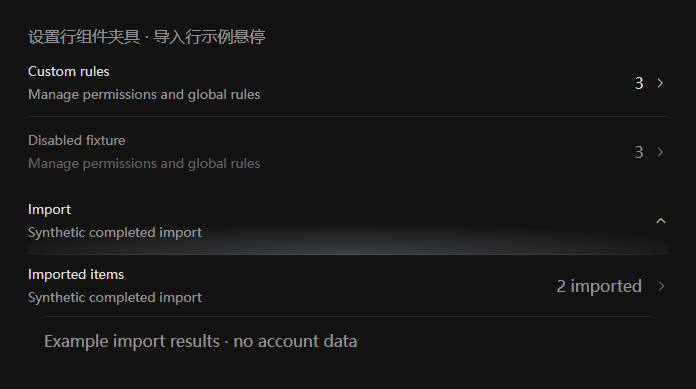
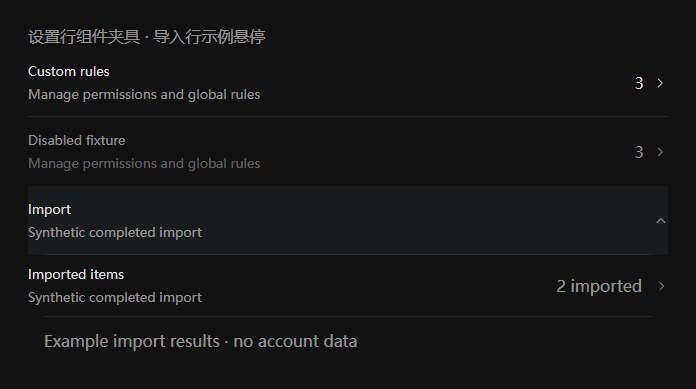
release: ship v0.18.14 theme UI adaptation

Changed region(s): [[0.3319, 0.617, 0.6638, 0.6787]]

diff --git a/runtime/wukong-codex-theme-background-v13.css b/runtime/wukong-codex-theme-background-v13.css
@@ -34,8 +34,7 @@
   --forge-nav-selected-fill: rgba(129,168,201,.09);
   --forge-nav-current-fill: rgba(129,168,201,.16);
   --forge-nav-current-edge: rgba(167,200,229,.38);
-  --forge-settings-action-ink: #e4d5b4;
-  --forge-settings-row-glow: rgba(183,205,224,.25);
+  --forge-settings-row-hover: rgba(183,205,224,.055);
   --forge-shell-filter: blur(8px);
   --forge-summary-fill: rgb(from var(--forge-glass-fill) r g b / 1);
   /* Reading material defaults; custom themes can override these alongside
@@ -71,8 +70,7 @@
   --forge-nav-selected-fill: rgba(72,111,145,.07);
   --forge-nav-current-fill: rgba(72,111,145,.12);
   --forge-nav-current-edge: rgba(54,89,121,.30);
-  --forge-settings-action-ink: #75552d;
-  --forge-settings-row-glow: rgba(76,107,132,.16);
+  --forge-settings-row-hover: rgba(76,107,132,.035);
 }
 :root.forge-ink-mountain[data-forge-surface="landing"] {
   --forge-conversation-visible-high: clamp(0, calc(var(--forge-conversation-image-high) * var(--forge-scene-brightness, 1)), 1);
@@ -519,31 +517,21 @@
   background: none !important;
   box-shadow: none !important;
 }
-/* Settings feedback fades upward and sideways from the bottom of the row.
- * Native corners, layout, dividers and keyboard focus outlines stay untouched. */
+/* Keep native full-row feedback with a lighter theme-matched tint.
+ * Native corners, dividers, icons and keyboard focus outlines stay untouched. */
 @media (forced-colors: none) {
   :root.forge-ink-mountain :is([data-settings-panel], [data-settings-search-root]) :is(
     [data-settings-search-entry].group[class~="hover:bg-secondary-ghost-hover"],
     button[aria-controls^="import-history-"][class~="hover:bg-secondary-ghost-hover"]
   ) {
     background-color: transparent !important;
+    background-image: none !important;
   }
   :root.forge-ink-mountain :is([data-settings-panel], [data-settings-search-root]) :is(
     [data-settings-search-entry].group[class~="hover:bg-secondary-ghost-hover"],
     button[aria-controls^="import-history-"][class~="hover:bg-secondary-ghost-hover"]
   ):is(:hover, :focus-visible, :has(:focus-visible)) {
-    background-image: radial-gradient(ellipse 60% 32px at 50% 100%, var(--forge-settings-row-glow), transparent) !important;
-  }
-  :root.forge-ink-mountain :is([data-settings-panel], [data-settings-search-root])
-    [data-settings-search-entry="personalization-custom-rules"][class~="hover:bg-secondary-ghost-hover"]:is(:hover, :focus-visible, :has(:focus-visible))
-      > button > [class~="col-start-3"] > svg:last-child,
-  :root.forge-ink-mountain :is([data-settings-panel], [data-settings-search-root])
-    button[aria-controls^="import-history-"][class~="hover:bg-secondary-ghost-hover"]:is(:hover, :focus-visible, :has(:focus-visible))
-      > [class~="@container/settings-row"] > [class~="justify-end"] > [class~="text-tertiary"]:last-child,
-  :root.forge-ink-mountain :is([data-settings-panel], [data-settings-search-root])
-    button[aria-controls^="import-history-"][class~="hover:bg-secondary-ghost-hover"]:is(:hover, :focus-visible, :has(:focus-visible))
-      > [class~="@container/settings-row"] > [class~="justify-end"] > [class~="whitespace-nowrap"] > span > svg[class~="text-tertiary"][class~="transition-transform"] {
-    color: var(--forge-settings-action-ink) !important;
+    background-color: var(--forge-settings-row-hover) !important;
   }
 }
 /* SettingsCard uses an inline background variable, unlike the theme preview.

diff --git a/docs/VALIDATION.md b/docs/VALIDATION.md
@@ -1,5 +1,21 @@
 # 当前适配验证
 
+## v0.18.14 / v132-settings-native-hover（2026-11-23 发行验证）
+
+本轮由用户明确授权发布，来源为 Windows Codex 26.1117.4957.0（包内 26.1117.41037）。安装包 SHA-256 与当前来源锁一致。发行纳入已完成的插件推荐、新版工作区与资料页、普通输入框模糊修正及侧栏真实壁纸取色，保留首页字标。
+
+设置交互改为原生整行悬停形式，深色 rgba(183,205,224,.055)、浅色 rgba(76,107,132,.035)。静止透明，展开不独立高亮；旧径向背景和箭头染色已删除。回归仅允许目标行底色与背景图变化，文字、图标、计数、加载器、尺寸、分隔线、动画和原生键盘轮廓均与原生精确对照。深浅色与两种设置作用域的定向检查 2/2 通过，预览已更新为当前原生组件夹具。
+
+本机热更新返回 verified=true、deferred=false、documentHidden=false，壁纸就绪，运行时为 v132。随后只读时窗口在后台，设置行未挂载，完整样式 SHA-256 为 b7331712fa011620d8428f3179c6c4a9b4c9a2900b7e31b2061958d90f7ee275，与源码及活动变量一致；旧柔光和箭头颜色变量均已清除。此次不将后台读回当作设置悬停的用户视觉验收。
+
+最终从精确暂存索引导出 206 个文件，全部逐字节匹配 Git blob，无 CRLF 差异。独立源码 `npm run check` **217/217 通过**，0 失败、取消或跳过，测试约 121.1 秒；同一输入的 Studio E2E 通过。运行时、测试和资源与验证输入一致，后续只补写发行证据文档。
+
+Windows ZIP 包含 38 个文件、4,058,530 字节。36 个 app 文件与已验证源码及暂存生产输入一致，启动器与中文说明单独核对；ZIP CRC、逐条内容和两次解压内容 SHA-256 均一致。相较 v0.18.13，32 个旧文件字节相同，版本元数据、host、注入计划、原生合同和 CSS 五项更新，新增插件材质 helper 一项。诊断、聊天、未跟踪任务栏材料和 battle-14 不进入源码索引或下载包。
+
+使用同一 ZIP 的解压包恢复原生及原生状态断言通过：stylePresent=false、ownedNodeCount=0、所有主题运行时均不存在。重新应用返回 verified=true、deferred=false，documentHidden=false，v132 和壁纸已就绪。完整样式 SHA-256 仍为 b7331712fa011620d8428f3179c6c4a9b4c9a2900b7e31b2061958d90f7ee275，与源码一致。当前设置导入行未挂载，具体悬停状态由真实原生组件回归覆盖，不作为当前实机行的视觉验收。冷启动与卸载本轮未执行。
+
+ZIP SHA-256 为 965c03fc60c42f25e00846995c3ba9a9a9142c0935a157a6d6b01c7b51c55315，校验文件 SHA-256 为 429863ebde39b7fcb525b31283882de693e729bc53bcf98edb52f4ca98f1113e。远程发行与回下载结果在完成后补记。
+
 ## v131-sidebar-scene-palette（2026-11-23 开发适配）
 
 继续使用当前 Windows Codex 26.1117.4957.0（包内 26.1117.41037）的原生导航、peek、Activity、设置及目录来源。侧栏先按场景预设色试用，用户反馈不够通透、取色不够贴合，最终改为直接复用现有壁纸裁切采样；用户确认“这版合适”。
@@ -20,11 +36,11 @@
 
 移动遮盖已获得明确触发：执行文字发光时输入框同时异常。限制状态行 contain:paint 未解决，已撤回；临时只关闭输入框背景模糊、保留文字发光及输入底色后，用户确认“没有了”。正式样式将这一变化限定到普通对话输入表面；临时诊断样式已移除，实机读回背景滤镜为 none，736×98 CSS px、底色和高光保持。原生状态与旧式 commentary 的动画代码没有禁用。离线动态夹具仅验证真实动画、几何、控件和像素稳定，不将未复现的合成异常写成夹具重现。
 
-设置中两处灰块来自交互状态，并非选中状态。「自定义规则」使用共享行的 hover／focus-within 底色；导入历史按钮使用 hover，展开只控制 aria-expanded 与子内容。替换限定到设置范围内这两类真实行：静止时背景透明，悬停／键盘焦点以 ellipse 60% 32px 的静态径向渐变从底部向上和两侧淡出；用户选择底部晕染后要求更明显，深浅色强度已相应提高。没有整行实色、新增描边、阴影或圆角。两类真实末端箭头单独使用淡金色，文字、加载指示及计数不染色。鼠标移开清除反馈，展开不独立高亮。原生圆角、分隔线伪元素、键盘轮廓、事件及布局保留。此前已在实际导入页核对行节点、静止透明及尺寸；本版底部晕染已热更新，组件预览与交互回归使用当前原生源码，观感待用户确认。
+设置中两处灰块来自交互状态，并非选中状态。「自定义规则」使用共享行的 hover／focus-within 底色；导入历史按钮使用 hover，展开只控制 aria-expanded 与子内容。此轮曾实施底部晕染方案；用户后续改选较淡的原生整行悬停，现行样式与验证见上述 v132。旧绘制及专用箭头白名单已从当前源码、测试和预览撤下，历史实现保留于 Git。
 
 最终独立导出的 201 个文件逐项匹配暂存 Git blob。`npm run check` **215/215 通过**，0 失败、取消或跳过，耗时约 119.3 秒；同一源码的 Studio E2E 通过。设置回归执行真实箭头、加载指示与展开组件，覆盖深浅色、两类设置作用域、鼠标焦点离开、键盘焦点、展开／收起、嵌套结果及高对比恢复。原生圆角、阴影、轮廓、分隔线、文字、计数与布局均受保护；前版圆角例外已移除。验证后仅补写结果与清理文档，运行时、测试和资源保持与验证输入一致。
 
[2 lines of base64/hex data omitted]
 
 
 ## v129-native-workspace-surface（2026-11-22 开发适配）

diff --git a/docs/native-surface-adaptation.md b/docs/native-surface-adaptation.md
@@ -1,5 +1,11 @@
 # 原生 UI 与主题替换接口
 
+v0.18.14 使用 v132-settings-native-hover，原生来源为 Windows Codex 26.1117.4957.0。以下接口对应本轮发行输入，功能概览见 [发行说明](RELEASE_0.18.14.md)，验证范围见 [验证记录](VALIDATION.md)。
+
+## 设置原生整行悬停（2026-11-23，v132）
+
+设置「自定义规则」的实际行由 data-settings-search-entry 与原生 hover token 关联，导入历史的按钮带有 import-history- 前缀的 aria-controls。主题只在 data-settings-panel／data-settings-search-root 内给这两类行映射较淡的悬停底色，深色为 rgba(183,205,224,.055)，浅色为 rgba(76,107,132,.035)。整行反馈沿用原生 hover 状态，原生图标、分隔线、圆角、键盘焦点轮廓和事件继续由组件控制。鼠标反馈只更换底色，强制色彩模式使用原生颜色。
+
 ## 侧栏实际壁纸取色（2026-11-23，v131）
 
 普通聊天导航由 default aside 中最外层的 data-sidebar-navigation-root／data-slate-sidebar-content 识别，peek 使用带原生 popover 背景 token 的 slate 内层。两者只消费专用 conversation 材质变量；共享 navigation-fill 继续用于设置及目录。Activity 的直接宿主、标记 section 与真实 settings-nav-scroll-container 排除保持。
@@ -10,16 +16,13 @@
 
 可见 peek 由内层独占色层，外层保留原模糊而不重复填色。原生退出期间，即使已 inert／collapsed／aria-hidden，popover 背景 token 仍代表保留绘制，应等 token 退出后才恢复外层；真正 hidden／隐藏类及其祖先不清空可见外层。新材质仅在允许透明度且非强制色彩时启用，其余状态继续使用 Canvas 和无滤镜。
 
-## 公共资料页、执行扫光与设置反馈（2026-11-22—23，v130）
+## 公共资料页与执行扫光（2026-11-22—23，v130）
 
 公共资料页通过自己的页面布局包装渲染，根是 `div.bg-surface`，直接包含标题包装及 `data-profile-scroll`。它没有资料设置组件的 `data-settings-search-root` 标记。主题依据真实的直接父子关系清除根底色，不依赖 main 祖先，覆盖独立页面及 tab 两种原生呈现。资料设置页的现有规则保留。
 
 标题包装在 scrollTop>0 时才获得 `bg-surface/80` 与原生背景模糊，内部使用 `data-app-shell-header-toolbar`。主题只在这个实际滚动底板上应用共享玻璃材质；回顶部后不再匹配，保留原生透明标题、滚动遮挡、控件和尺寸。无关背景、错误嵌套的滚动节点及保留的隐藏页面不改变布局。
 
 执行状态文字的原生 cadenced 蒙版扫光及旧式 text-clip 扫光保持。实机对照中仅关闭输入框背景模糊后，用户确认移动遮盖消失；限制状态行 paint 范围的候选无效，已撤回。正式规则只在 `data-thread-composer-backdrop` 内的 default／opaque／secondary 非拖放输入表面令 `--composer-layout-surface-backdrop-filter:none`。普通对话的半透明底色、高光和阴影保留；首页及独立表面继续使用自己的玻璃滤镜。临时模糊诊断规则已移除。离线夹具不声称重现 Windows 合成异常，而是验证真实动画保留、绘制范围、输入框像素稳定及材质边界。
-
-
-设置「自定义规则」的实际行由 data-settings-search-entry 与原生 hover token 关联，内层按钮继承圆角并保留键盘轮廓；导入历史的实际按钮有 import-history- 前缀的 aria-controls 和同一 hover token。主题只在 data-settings-panel／data-settings-search-root 内替换这两类行的反馈：静止时底色透明，悬停／键盘焦点以 ellipse 60% 32px 的径向背景图从底部向上和两侧淡出，不增加整行实色、描边、阴影或圆角。自定义规则的直接末端 svg 与导入行 control 的末端 text-tertiary 图标单独着淡金色，不修改计数、文字和加载图标。鼠标移开清除反馈；aria-expanded 不作为持续高亮条件。原生圆角、divider 伪元素、键盘轮廓、布局和事件不变，强制色彩模式使用原生交互反馈。绘制边界检查只为两个组件的完整图标选择器及精确颜色变量放行，不增加几何例外。
 
 ## 当前工作区与资料页（2026-11-22，v129）
 
@@ -150,7 +153,7 @@ PageSurface、CodeSurface、Popover、FloatingSurface、确认／语音面板、
 | dots 处理框与资料收起标题 | summary 范围内共享 sticky 标题的空惰性渐变叶、带实色底板的装饰分支 | 渐变局部取摘要材质色，实色底板同色；保留原生透明度、portal、遮挡和控件 |
 | 顶底渐变与底板 | thread footer、scroll container、composer、main-content-layout 内共享 footer background 的空惰性叶；main-content-top-fade | 覆盖 fade、surface、combined，清除绘制，保留布局预留与交互 |
 | dots 标题 | position-anchor 指向 orbit-messaging-header 动态锚点的空惰性节点 | 清除标题渐变，允许原生 portal 改变挂载位置；头像、通话与资料控件不参与替换；共享 composer 底部装饰渐变单独限定 |
-| 设置 | data-settings-panel、settings-dialog；资料设置页的 data-settings-search-root 与 electron:bg-surface | 设置窗口整体及导航应用材质，正文壳透明；默认平铺行静止时透明，动作行及导入行使用无描边的底部晕染反馈；显式盒装卡片使用玻璃，色卡与代码预览保留 |
+| 设置 | data-settings-panel、settings-dialog；资料设置页的 data-settings-search-root 与 electron:bg-surface | 设置窗口整体及导航应用材质，正文壳透明；默认平铺行静止时透明，动作行及导入行使用较淡的原生整行悬停底色；显式盒装卡片使用玻璃，色卡与代码预览保留 |
 | 公共资料页 | bg-surface 直接包含 data-profile-scroll，滚动标题包装含 data-app-shell-header-toolbar | 页面根透明，滚动标题独立应用玻璃材质，顶部与回顶部保持原生透明标题及遮挡顺序 |
 | 浏览器智能体权限表 | group/settings 内 table 的 browser-use-site-permissions-column-* 无障碍 ID | 局部单元格材质变量；固定列和表头用实色遮挡移动内容，保留原生边角、横向翻页及下拉权限状态 |
 | 目录、图像、插件、技能、计划页标题 | data-sticky、titlebar inset 变量、实际搜索输入 ID | 替换实际背景伪元素，不泛化处理任意 sticky 元素 |

diff --git a/docs/CURRENT_GOAL.md b/docs/CURRENT_GOAL.md
@@ -1,21 +1,21 @@
 # 当前目标与发行状态
 
-更新于 2026-11-23。**[v0.18.13](https://github.com/Udkam/wukong-codex-theme/releases/tag/v0.18.13) 已发布为 GitHub 最新正式版**。发行运行时为 v127-composer-status-first-paint，适配 Windows Codex 26.1111.2228.0（包内 26.1111.21308）。
+更新于 2026-11-23。本轮发行版本为 **v0.18.14**，运行时 **v132-settings-native-hover**，适配 Windows Codex 26.1117.4957.0（包内 26.1117.41037）。用户已授权发布，当前进入发行验证与打包流程。
 
-正式版的文件变更徽标、排队消息和目标条从首次挂载起应用主题材质，详见 [发行说明](RELEASE_0.18.13.md)。
+本轮包含侧栏实际壁纸取色、设置整行淡悬停、公共资料页与输入框修复，以及新版工作区、浏览器、查找条和内置插件推荐的材质适配，详见 [发行说明](RELEASE_0.18.14.md)。
 
-当前开发运行时为 **v131-sidebar-scene-palette**，适配 Windows Codex 26.1117.4957.0（包内 26.1117.41037）。侧栏复用现有壁纸裁切采样直接取色，采用更通透的分层阅读底色；用户已确认这版合适。此前 v130 的资料页／输入框修复及 v129 的工作区、设置、浏览器和查找条修复继续保留。
+设置「自定义规则」和导入历史恢复原生整行悬停，底色随深浅主题使用更淡的蓝灰色。侧栏使用用户已确认的实际壁纸取色与通透分层材质。
 
 用户已确认资料页主体显示壁纸，并确认保留执行文字发光、仅关闭输入框背景模糊时，移动遮盖消失。正式规则仅停用普通对话输入框的背景模糊，保留底色、高光、阴影和原生执行动画；首页和其他玻璃浮层不变，首页字标保持原样。最终回归及实机范围见 [验证记录](VALIDATION.md)。
 
 侧栏颜色随实际图片、裁切及窗口尺寸变化更新，浅色模式保留浅底并轻微染色；亮背景自动提高阅读衬底。沿用同一份 24×64 采样及缓存，不增加图片层、模糊层或逐行扫描。Activity、设置和目录材质保持独立，完整回归与实机结果见 [验证记录](VALIDATION.md)。
 
-设置底部柔光仍为已提交的 v130 基线；后续外溢柔光候选仅提供交互预览，没有合入本次侧栏改动。
+设置行的深色悬停底为 rgba(183,205,224,.055)，浅色为 rgba(76,107,132,.035)。鼠标交互沿用整行底色，键盘焦点沿用原生轮廓，图标使用原生颜色。深浅预览来源见 [预览说明](previews/README.md)，本次检查与注入结果见 [验证记录](VALIDATION.md)。
 
-本轮处于开发状态，尚无本轮发布授权；正式下载和发行版本仍为 v0.18.13。改动范围见 [下一版说明](RELEASE_NEXT.md)。
+发行源码检查、运行包核验、实际注入与上传回读按执行结果记入 [验证记录](VALIDATION.md)。
 
 此前标签页开合卡顿在恢复原生外观时也有复现。标签页开合沿用客户端动画。
 
-[Windows 运行包](https://github.com/Udkam/wukong-codex-theme/releases/download/v0.18.13/Wukong-Codex-Theme-0.18.13-Windows.zip) 和 [SHA256SUMS.txt](https://github.com/Udkam/wukong-codex-theme/releases/download/v0.18.13/SHA256SUMS.txt) 的正式发行校验、恢复原生和重新应用结果见 [验证记录](VALIDATION.md)，过程材料状态见 [清理记录](CLEANUP.md)。
+[v0.18.14 发行页](https://github.com/Udkam/wukong-codex-theme/releases/tag/v0.18.14) · [Windows 运行包](https://github.com/Udkam/wukong-codex-theme/releases/download/v0.18.14/Wukong-Codex-Theme-0.18.14-Windows.zip) · [SHA256SUMS.txt](https://github.com/Udkam/wukong-codex-theme/releases/download/v0.18.14/SHA256SUMS.txt)。过程材料状态见 [清理记录](CLEANUP.md)。
 
-上一版的普通对话底部背景修复见 [v0.18.12 发行说明](RELEASE_0.18.12.md)。
+上一版的文件变更徽标、目标条和排队消息适配见 [v0.18.13 发行说明](RELEASE_0.18.13.md)。

diff --git a/docs/RELEASE_NEXT.md b/docs/RELEASE_NEXT.md
@@ -1,19 +1,5 @@
-# 下一版（开发中）
+# v0.18.14 发行准备
 
-2026-11-23，运行时 **v131-sidebar-scene-palette**。适配 Windows Codex 26.1117.4957.0（包内 26.1117.41037）。
+2026-11-23，运行时 **v132-settings-native-hover**。适配 Windows Codex 26.1117.4957.0（包内 26.1117.41037）。用户已授权发布。
 
-- 侧栏直接跟随实际壁纸取色，复用现有裁切采样与缓存；更通透的深色底、浅色轻染及亮背景阅读补偿随场景更新。普通侧栏和 peek 仅绘制一层材质，保留原生尺寸、文字、选中态与退出动画，Activity／设置／目录不受影响。
-- 覆盖公共资料页真正的背景壳，并为滚动后的独立标题底板应用主题材质；顶部、滚动及回顶部保留原生布局和遮挡。资料设置页与公共资料页分别验证。
-- 修正执行状态文字扫光干扰输入框：普通对话输入框采用无背景模糊的半透明材质，底色、高光、圆角及阴影保留；首页、独立浮层和执行文字动画不变。
-- 重新设计「自定义规则」与导入历史的交互反馈：使用向上与两侧淡出的底部晕染，末端箭头保留淡金强调；不增加整行实色、描边、阴影或圆角。鼠标移开后恢复透明，展开不持续高亮，原生分隔线、键盘轮廓及布局保持。
-- 按新版工作区的真实背景底板、替代外壳伪元素和顶部渐变清除残留实色，补齐查看器区域的渐变绘制归属。
-- 为设置窗口整体及导航应用主题材质，资料设置页正文壳保持透明；默认平铺设置行沿用原生外观，显式盒装卡片继续使用玻璃材质。
-- 适配侧栏 peek 包装的独立底色，并按当前浏览器标题栏的实际挂载范围绘制右侧标签区域，保留原生布局、控件及完整视图行为。
-- 首页保持原有字标资源、文案、168px 尺寸与宿主透明度，首页清除原生外框灰色叠层，不添加额外遮罩。
-- 为聊天查找条的实际内部底色节点补齐主题材质，外层定位、透明输入和查找控件沿用原生。
-- 输入框仅替换原生有材质的变体，透明文档编辑画布及拖放反馈保留原生绘制，避免额外覆盖层。
-- 保留 v128 的内置插件推荐适配：玻璃卡片、细描边、浅色图标底板与安装按钮配色随嵌入页加载和主题切换更新，恢复原生时清除。
-
-首页建议面板及目标条等回归输入同步到当前原生组件，保留字体、尺寸、禁用状态、滚动和点击检查。深浅色图片来自当前原生结构与 CSS 的组件夹具，见 [预览说明](previews/README.md)；最终检查与实机验收范围见 [验证记录](VALIDATION.md)。
-
-本轮尚无发布授权，当前正式下载包为 [v0.18.13](RELEASE_0.18.13.md)。
+本轮侧栏取色、设置悬停、公共资料页、输入框、新版工作区和插件推荐等更新已归入 [v0.18.14 发行说明](RELEASE_0.18.14.md)。深浅效果见 [组件预览](previews/README.md)，发行验证和实际注入结果见 [验证记录](VALIDATION.md)。

diff --git a/docs/previews/README.md b/docs/previews/README.md
@@ -1,5 +1,7 @@
 # 当前预览
 
+v0.18.14 汇入以下侧栏、设置行、资料页、工作区、首页及插件推荐的适配。图片保留各自的原生来源和生成日期，实际检查与用户确认范围见 [验证记录](../VALIDATION.md)。
+
 ## v131 侧栏实际壁纸取色（2026-11-23）
 
 使用当前 Windows Codex 26.1117.4957.0 的原生侧栏与行展示组件，配合示例文字生成。每张图并列冷、暖两张真实壁纸，实际执行主题运行时的图片解码与 24×64 取色路径；明亮壁纸下会自动保留阅读衬底。图片属于组件夹具，不含列表隐私；用户对当前对话页实机通透度与配色的确认另见 [验证记录](../VALIDATION.md)。
@@ -8,9 +10,9 @@
 | --- | --- |
 | ![深色侧栏实际取色夹具](dark-sidebar-scene-palette-fixture-20261123.png) | ![浅色侧栏实际取色夹具](light-sidebar-scene-palette-fixture-20261123.png) |
 
-## v130 设置行交互（2026-11-23）
+## v132 设置原生整行悬停（2026-11-23）
 
-使用当前 Windows Codex 26.1117.4957.0 的设置动作行、导入按钮、展开包装及分隔线展示组件生成。「Custom rules」展示静止状态，「Import」展示底部柔和晕染和淡金箭头，展开子行保持透明；没有新增描边、实色框或圆角，键盘焦点轮廓沿用原生，另由动态回归核对。内容为合成示例，图片属于组件夹具，非账户页面实机截图。实际注入与验证边界见 [验证记录](../VALIDATION.md)。
+使用 Windows Codex 26.1117.4957.0 的设置动作行、导入按钮、展开包装及分隔线展示组件生成。「Custom rules」展示静止状态，「Import」展示较淡的整行悬停底色，图标使用原生颜色，键盘焦点轮廓沿用原生组件。图片使用示例内容，属于组件夹具。实际注入与验证范围见 [验证记录](../VALIDATION.md)。
 
 | 深色 | 浅色 |
 | --- | --- |
@@ -27,7 +29,7 @@
 
 ## v129 工作区背景与侧栏（2026-11-22）
 
-使用 Windows Codex 26.1117.4957.0（包内 26.1117.41037）的原生背景节点、布局与 CSS，配合示例侧栏和正文展示当前开发版工作区。运行时为 v129-native-workspace-surface。图片来自组件夹具，不含聊天记录；实际检查和用户验收范围见 [验证记录](../VALIDATION.md)。
+使用 Windows Codex 26.1117.4957.0（包内 26.1117.41037）的原生背景节点、布局与 CSS，配合示例侧栏和正文展示工作区。图片生成于 v129-native-workspace-surface，材质方案随 v0.18.14 发行。图片来自组件夹具，不含聊天记录；实际检查和用户验收范围见 [验证记录](../VALIDATION.md)。
 
 | 深色 | 浅色 |
 | --- | --- |

diff --git a/docs/logs/CHANGELOG.md b/docs/logs/CHANGELOG.md
@@ -1,5 +1,15 @@
 # 当前变更
 
+## 2026-11-23 v0.18.14 发行准备
+
+- 用户已授权发布本轮设置行、侧栏取色、资料页、输入框、新版工作区及插件推荐更新，运行时为 v132-settings-native-hover。
+- 同步正式版本链接和 [发行说明](../RELEASE_0.18.14.md)，检查、运行包和上传结果见 [验证记录](../VALIDATION.md)。
+
+## 2026-11-23 v132 设置原生整行悬停（开发中）
+
+- 「自定义规则」和导入历史恢复原生整行悬停，深浅色使用更淡的主题蓝灰底色。
+- 鼠标反馈只调整底色，图标、圆角、分隔线、键盘焦点轮廓及展开交互沿用原生组件。同步深浅设置行夹具与适配说明，实际结果见 [验证记录](../VALIDATION.md)。
+
 ## 2026-11-23 v131 侧栏实际壁纸取色（开发中）
 
 - 侧栏由实际图片裁切区域取色，替换固定深灰材质，降低遮罩并保留轻微上下层次；浅色轻染，亮背景自动增加阅读衬底。用户已确认本机这版合适。
@@ -7,13 +17,12 @@
 - 普通侧栏与 peek 按原生绘制状态保持单层材质，退出及隐藏分支、设置／Activity／目录隔离保留。补充真实源组件与动态取色回归，更新深浅冷暖预览。
 - 本轮为开发更新，正式下载仍为 v0.18.13。
 
-## 2026-11-22—23 v130 公共资料页、执行文字与设置反馈（开发中）
+## 2026-11-22—23 v130 公共资料页与执行文字（开发中）
 
 - 区分公共资料页和资料设置页；清除实际公共资料页父壳的原生黑底，用户已确认主体显示壁纸。
 - 适配资料页滚动后的独立标题底板，保留原生顶部／滚动／回顶部布局与遮挡。
 - 根据实机对照，停用普通对话输入框的背景模糊以消除执行文字扫光带来的移动遮盖；底色、高光、圆角、阴影和执行动画保留，首页与独立浮层不变。无效的 paint containment 候选及临时诊断规则撤回。
-- 按用户指定方向重新设计设置「自定义规则」和导入历史：底部晕染向上及两侧自然淡出，并提高可见强度，末端箭头使用淡金强调；不加整行实色、描边、阴影或圆角，移开恢复透明，保留原生分隔线、键盘轮廓、布局及展开行为。
-- 补充真实公共资料页、动态执行文字和设置交互回归，更新深浅资料页与设置组件预览。本轮未发布，正式下载仍为 v0.18.13。
+- 补充真实公共资料页与动态执行文字回归，更新深浅资料页预览。设置交互由 v132 方案接替。本轮未发布，正式下载仍为 v0.18.13。
 
 
 ## 2026-11-22 v129 新版工作区、设置与浏览器适配（开发中）

diff --git a/README.md b/README.md
@@ -2,17 +2,17 @@
 
 为 Windows Codex / ChatGPT 桌面客户端带来悟空背景与玻璃材质，支持深色和浅色主题。内置 10 张战斗图与 3 张风景图，可用快捷键切换。
 
-**[下载 Windows 运行包](https://github.com/Udkam/wukong-codex-theme/releases/download/v0.18.13/Wukong-Codex-Theme-0.18.13-Windows.zip)** · [使用说明](docs/QUICK_START.txt) · [更新记录](https://github.com/Udkam/wukong-codex-theme/releases)
+**[下载 Windows 运行包](https://github.com/Udkam/wukong-codex-theme/releases/download/v0.18.14/Wukong-Codex-Theme-0.18.14-Windows.zip)** · [使用说明](docs/QUICK_START.txt) · [更新记录](https://github.com/Udkam/wukong-codex-theme/releases)
 
 ## 效果预览
 
-悟空场景与深浅玻璃材质。以下展示当前开发版侧栏随实际壁纸取色的效果；首页、设置交互和其他区域见[组件预览](docs/previews/README.md)。
+悟空场景与深浅玻璃材质。侧栏随实际壁纸取色，设置动作行使用更淡的整行悬停底色；更多效果见[组件预览](docs/previews/README.md)。
 
 | 深色 | 浅色 |
 | :---: | :---: |
 | ![深色侧栏取色组件夹具](docs/previews/dark-sidebar-scene-palette-fixture-20261123.png) | ![浅色侧栏取色组件夹具](docs/previews/light-sidebar-scene-palette-fixture-20261123.png) |
 
-预览使用 Windows Codex 26.1117.4957.0 的原生结构、样式与示例内容生成，属于组件夹具；实机验收情况见 [验证记录](docs/VALIDATION.md)。正式下载仍为 v0.18.13，开发进展见 [下一版说明](docs/RELEASE_NEXT.md)。
+预览使用 Windows Codex 26.1117.4957.0 的原生结构、样式与示例内容生成，属于组件夹具；具体变化见 [发行说明](docs/RELEASE_0.18.14.md)，检查与实机验收情况见 [验证记录](docs/VALIDATION.md)。
 
 ## 开始使用
 
@@ -28,4 +28,4 @@
 
 ---
 
-[开发文档](docs/DEVELOPMENT.md) · [当前发行说明](docs/RELEASE_0.18.13.md) · [验证记录](docs/VALIDATION.md) · [问题反馈](https://github.com/Udkam/wukong-codex-theme/issues)
+[开发文档](docs/DEVELOPMENT.md) · [当前发行说明](docs/RELEASE_0.18.14.md) · [验证记录](docs/VALIDATION.md) · [问题反馈](https://github.com/Udkam/wukong-codex-theme/issues)

diff --git a/docs/RELEASE_0.18.14.md b/docs/RELEASE_0.18.14.md
@@ -1,0 +1,18 @@
+# v0.18.14 侧栏取色与新版界面适配
+
+适配 Windows Codex 26.1117.4957.0，主题运行时为 v132。
+
+- **侧栏跟随壁纸取色。** 深色侧栏更通透，浅色侧栏轻微染色，明亮场景自动增加阅读衬底。展开的临时侧栏使用同一套材质。
+- **设置行使用更淡的整行反馈。** 「自定义规则」和导入历史沿用原生悬停方式，深浅主题各自使用蓝灰底色，键盘焦点保留原生轮廓。
+- **公共资料页显示主题壁纸。** 资料主体和滚动后的标题底板应用各自的材质，顶部、滚动与回顶部的布局沿用客户端。
+- **修正输入框上的移动遮盖。** 普通对话输入框采用无背景模糊的半透明材质，保留高光、圆角、阴影和执行文字动画。
+- **适配新版工作区与浏览器。** 清理工作区和查看器残留的实色与渐变，补齐设置窗口、右侧标签区域和聊天查找条的材质。
+- **内置插件推荐使用主题配色。** 卡片、图标底板和安装按钮随深浅主题更新，嵌入页重新加载后继续应用主题。
+
+深浅色图片使用当前原生结构、CSS 与示例内容生成，属于组件夹具。具体检查与实机确认范围见验证记录。[组件预览](previews/README.md) · [验证记录](VALIDATION.md)
+
+独立源码 217 项检查与 Studio 端到端测试全部通过。运行包 38 个文件与源码、ZIP 和解压内容逐项一致；已使用解压包完成恢复原生及重新应用，本机前台读回运行时和完整主题样式一致。
+
+解压 Windows 运行包后，完全退出桌面客户端，再双击 `start.cmd`。[使用说明](QUICK_START.txt)
+
+[GitHub 发行页](https://github.com/Udkam/wukong-codex-theme/releases/tag/v0.18.14) · [Windows ZIP](https://github.com/Udkam/wukong-codex-theme/releases/download/v0.18.14/Wukong-Codex-Theme-0.18.14-Windows.zip) · [SHA256SUMS.txt](https://github.com/Udkam/wukong-codex-theme/releases/download/v0.18.14/SHA256SUMS.txt)
